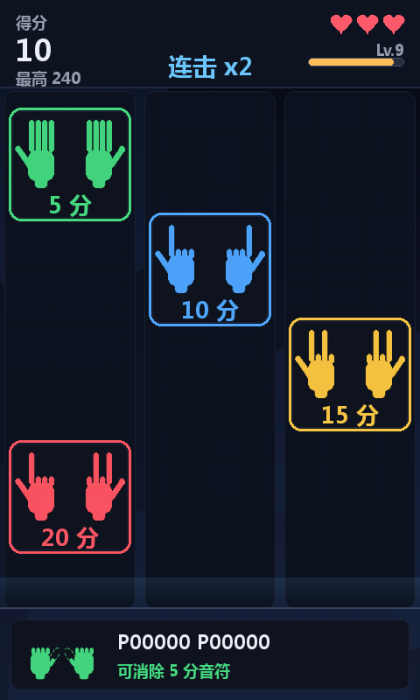
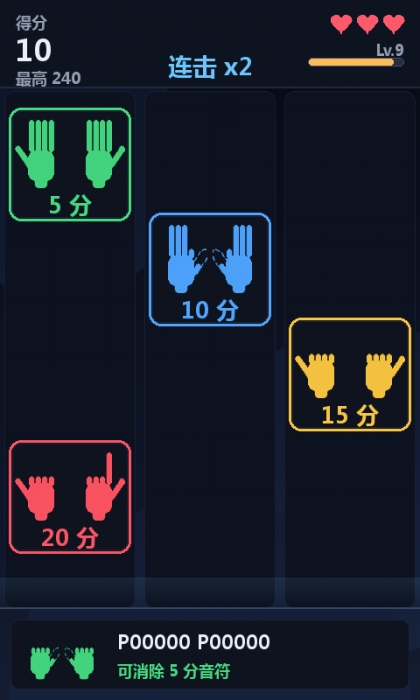
feat: 蓝色去掉 11000，黄色改为 10000 / 11000 / 11100
- 蓝色 10 分：01000 / 01100 / 01110 / 01111 / 00111（仅 P），5 种
- 黄色 15 分：10000 / 11000 / 11100（拇指伸出，P/N 任意），12 种
- 红色 20 分：取自全部 10 种手型的不同手型对，174 种
- 合计 196 种；测试、自检、文档与截图同步更新

diff --git a/test_rhythm_logic.py b/test_rhythm_logic.py
@@ -61,15 +61,15 @@ def test_examples_from_requirements():
     }
     ten = {
         "P01000P01000", "P01100P01100", "P01110P01110",
-        "P01111P01111", "P00111P00111", "P11000P11000",
+        "P01111P01111", "P00111P00111",
     }
     fifteen = {
-        "P11010P11010", "P01010P01010", "P00101P00101", "P01001P01001",
-        "N11010N11010", "P11010N11010", "N11010P11010",
+        "P10000P10000", "P11000P11000", "P11100P11100",
+        "N10000N10000", "P10000N10000", "N11000P11000",
     }
     twenty = {
-        "P11111P00000", "P01000P01100", "P11010P01010", "P01001N11111",
-        "P11010N11000", "N11010P11111",
+        "P11111P00000", "P01000P01100", "P10000P01000", "P00111N11111",
+        "P11000N11111", "P11100P01110",
     }
     for code in sorted(five):
         check("5 points {}".format(format_code(code)),
@@ -87,28 +87,29 @@ def test_examples_from_requirements():
         check("20 points {}".format(format_code(code)),
               value_of_code(code) == 20, describe(code))
     # Thumb variations: N hands must keep the thumb extended.
-    check("10 points N11000P11000", value_of_code("N11000P11000") == 10)
-    check("10 points P11000N11000", value_of_code("P11000N11000") == 10)
-    check("N01110P01110 removed (N thumb folded)",
+    check("yellow allows N (11000 thumb is extended)",
+          value_of_code("N11000N11000") == 15)
+    check("blue does not allow N (folded thumb)",
           value_of_code("N01110P01110") == 0)
-    check("yellow with N thumb folded removed",
-          value_of_code("N01010P01010") == 0)
+    check("11000 is no longer a blue pattern",
+          value_of_code("P11000P11000") == 15)
     # Everything else is not a note gesture.
     check("invalid pattern 10101", value_of_code("P10101P10101") == 0)
     check("invalid thumb X", value_of_code("X11111P11111") == 0)
     check("too short", value_of_code("P1111P11111") == 0)
     check("empty", value_of_code("") == 0)
+    check("removed pattern 11010", value_of_code("P11010P11010") == 0)
     check("is_valid_code", is_valid_code("P11111N00000")
           and not is_valid_code("p11111n00000"))
 
 
 def test_catalog_sizes_and_consistency():
-    check("catalog total is 225", len(CATALOG) == 225, str(len(CATALOG)))
+    check("catalog total is 196", len(CATALOG) == 196, str(len(CATALOG)))
     sizes = {value: len(codes) for value, codes in CODES_BY_VALUE.items()}
     check("5 green gestures", sizes[5] == 5, str(sizes[5]))
-    check("9 blue gestures", sizes[10] == 9, str(sizes[10]))
-    check("7 yellow gestures", sizes[15] == 7, str(sizes[15]))
-    check("204 red gestures", sizes[20] == 204, str(sizes[20]))
+    check("5 blue gestures", sizes[10] == 5, str(sizes[10]))
+    check("12 yellow gestures", sizes[15] == 12, str(sizes[15]))
+    check("174 red gestures", sizes[20] == 174, str(sizes[20]))
     check("categories are disjoint",
           not (set(CODES_BY_VALUE[5]) & set(CODES_BY_VALUE[10])) and
           not (set(CODES_BY_VALUE[10]) & set(CODES_BY_VALUE[15])) and
@@ -132,7 +133,7 @@ def test_catalog_sizes_and_consistency():
     check("catalog rule consistency", not wrong, str(wrong[:4]))
     check("all patterns used", set(PATTERNS_5 + PATTERNS_10 +
                                    PATTERNS_15) == set(ALL_PATTERNS))
-    check("12 per-hand patterns", len(ALL_PATTERNS) == 12)
+    check("10 per-hand patterns", len(ALL_PATTERNS) == 10)
     check("every N hand has the thumb out",
           all(parse_hand(code[6:])[0] != "N" or
               parse_hand(code[6:])[1][0] == "1"

diff --git a/gesture_catalog.py b/gesture_catalog.py
@@ -21,18 +21,18 @@ value   rule
 5       both hands share the same finger pattern, pattern is 11111 or
         00000                                        (4 + 1 = 5)
 10      both hands share the same pattern from 01000, 01100, 01110,
-        01111, 00111 or 11000                   (5 * 1 + 1 * 4 = 9)
-15      both hands share the same pattern from 11010, 01010, 00101 or
-        01001                                         (4 + 3 = 7)
-20      the two hands use *different* patterns, both from the 12
-        patterns above                           (12 * 11 pairs, thumbs
-                                                   per the rule = 204)
+        01111 or 00111                                    (5 * 1 = 5)
+15      both hands share the same pattern from 10000, 11000 or 11100
+                                                   (3 * 4 = 12)
+20      the two hands use *different* patterns, both from the 10
+        patterns above                           (10 * 9 pairs, thumbs
+                                                   per the rule = 174)
 ======  ==============================================================
 
 An ``N`` hand must have its thumb extended: an outward pointing thumb that is
 folded does not read clearly, so the game never asks for it (``N00000`` and
 friends are not note gestures), while ``P`` hands may keep the thumb folded.
-With that rule the catalog holds 5 + 9 + 7 + 204 = 225 gestures.  Any other
+With that rule the catalog holds 5 + 5 + 12 + 174 = 196 gestures.  Any other
 code is a valid *reading* of the hands but not a note gesture: it matches
 nothing.
 """
@@ -46,10 +46,10 @@ import random
 # ---------------------------------------------------------------------------
 
 PATTERNS_5 = ("11111", "00000")
-PATTERNS_10 = ("01000", "01100", "01110", "01111", "00111", "11000")
-PATTERNS_15 = ("11010", "01010", "00101", "01001")
+PATTERNS_10 = ("01000", "01100", "01110", "01111", "00111")
+PATTERNS_15 = ("10000", "11000", "11100")
 
-#: Every per-hand finger pattern that can appear on a note (12 in total).
+#: Every per-hand finger pattern that can appear on a note (10 in total).
 ALL_PATTERNS = PATTERNS_5 + PATTERNS_10 + PATTERNS_15
 
 THUMBS = ("P", "N")

diff --git a/verify_environment.py b/verify_environment.py
@@ -79,18 +79,18 @@ def check_catalog():
     from gesture_catalog import CATALOG, CODES_BY_VALUE, value_of_code
 
     sizes = {value: len(codes) for value, codes in CODES_BY_VALUE.items()}
-    record("gesture catalog 225 gestures", len(CATALOG) == 225,
+    record("gesture catalog 196 gestures", len(CATALOG) == 196,
            str(len(CATALOG)))
-    record("score groups 5 / 9 / 7 / 204",
-           sizes.get(5) == 5 and sizes.get(10) == 9 and
-           sizes.get(15) == 7 and sizes.get(20) == 204, str(sizes))
+    record("score groups 5 / 5 / 12 / 174",
+           sizes.get(5) == 5 and sizes.get(10) == 5 and
+           sizes.get(15) == 12 and sizes.get(20) == 174, str(sizes))
     record("catalog lookup",
            value_of_code("P11111P11111") == 5 and
            value_of_code("P01110P01110") == 10 and
-           value_of_code("P11010P11010") == 15 and
+           value_of_code("P10000P10000") == 15 and
            value_of_code("P11111P00000") == 20 and
            value_of_code("N00000P00000") == 0,
-           "P11111P11111=5, P01110P01110=10, P11010P11010=15, "
+           "P11111P11111=5, P01110P01110=10, P10000P10000=15, "
            "P11111P00000=20, N-folded=0")
 
 

diff --git a/docs/实现报告.md b/docs/实现报告.md
@@ -34,19 +34,19 @@ READY --(双手张开保持 0.7 s)--> PLAYING --(机会用尽)--> OVER
 
 即 `P` 指向屏幕中央、`N` 指向外侧。
 
-### 1.3 四档手势（共 225 个）
+### 1.3 四档手势（共 196 个）
 
 | 分值 | 颜色 | 规则 | 数量 |
 | --- | --- | --- | --- |
 | 5 | 绿 `(72,219,130)` | 两手手型相同且在 `{11111, 00000}`；`11111` 可 P/N，`00000` 只能 P | 4 + 1 = **5** |
-| 10 | 蓝 `(82,168,255)` | 两手手型相同且在 `{01000, 01100, 01110, 01111, 00111, 11000}`；`11000` 可 P/N，其余只能 P | 5 + 4 = **9** |
-| 15 | 黄 `(250,200,70)` | 两手手型相同且在 `{11010, 01010, 00101, 01001}`；`11010` 可 P/N，其余只能 P | 4 + 3 = **7** |
-| 20 | 红 `(255,88,102)` | 两手手型**不同**，各自取自上述全部 12 种手型；N 手按拇指规则 | **204** |
+| 10 | 蓝 `(82,168,255)` | 两手手型相同且在 `{01000, 01100, 01110, 01111, 00111}`；拇指都是收起的，只能 P | 5 × 1 = **5** |
+| 15 | 黄 `(250,200,70)` | 两手手型相同且在 `{10000, 11000, 11100}`；拇指都是伸出的，P/N 任意 | 3 × 4 = **12** |
+| 20 | 红 `(255,88,102)` | 两手手型**不同**，各自取自上述全部 10 种手型；N 手按拇指规则 | **174** |
 
 **N 手拇指规则**：`N` 手（拇指朝外）必须伸出大拇指，`P` 手不受限（伸、屈都可以）。
-朝外又收起的拇指在画面里很难辨认，因此不作为音符要求。20 分的推导：拇指位为 1 的 3 种手型
-（`11111`、`11000`、`11010`）每只手有 2 种选择，其余 9 种只有 `P` 一种，按有序不同手型对累加：
-`3×2 对 ×4 + 3×9×2 对 ×2 + 9×8 对 ×1 = 24 + 108 + 72 = 204`。
+朝外又收起的拇指在画面里很难辨认，因此不作为音符要求。20 分的推导：10 种手型的有序不同对共
+90 对；拇指位为 1 的 4 种（`11111`、`10000`、`11000`、`11100`）每只手有 2 种选择，
+其余 6 种只有 `P` 一种，`4×3 对 ×4 + 4×6×2 对 ×2 + 6×5 对 ×1 = 48 + 96 + 30 = 174`。
 
 不是音符的编码（例如手型 `10101`、`N00000P00000`）仍然能识别并显示，但不与任何音符匹配、不扣分。
 
@@ -83,7 +83,7 @@ READY --(双手张开保持 0.7 s)--> PLAYING --(机会用尽)--> OVER
 | --- | --- |
 | `gesture_rhythm.py` | 主程序：pygame 三个界面、摄像头窗口叠加、主循环、窗口缩放、键鼠输入 |
 | `gesture_twohands.py` | MediaPipe 双手识别：整帧输入、左右手排序、关节角判定、平滑、骨骼绘制、后台采集线程 |
-| `gesture_catalog.py` | 12 字符编码 / 解码、225 个音符手势的分类表与随机取音符 |
+| `gesture_catalog.py` | 12 字符编码 / 解码、196 个音符手势的分类表与随机取音符 |
 | `gesture_icons.py` | 程序化绘制手势图、音符卡片、当前手势面板 |
 | `game_core.py` | 纯游戏逻辑：音符、难度、生成器、命中、机会、状态机、最高分 JSON |
 | `sound_effects.py` | numpy 合成音效，按事件类型播放，无音频设备时自动关闭 |
@@ -140,11 +140,11 @@ READY --(双手张开保持 0.7 s)--> PLAYING --(机会用尽)--> OVER
 ### 5.1 单元测试（`test_rhythm_logic.py`）
 
 ```
-160 checks, 0 failed
+158 checks, 0 failed
 RESULT: all passed
 ```
 
-覆盖：四档数量 5/9/7/204/225、分类表自洽性（含「N 手拇指必须伸出」全表断言）、编解码与非法输入、
+覆盖：四档数量 5/5/12/174/196、分类表自洽性（含「N 手拇指必须伸出」全表断言）、编解码与非法输入、
 拇指朝向映射、合成 landmark 分类（张开/握拳/单指/三指）、3D 关节角阈值（90°/150° 折叠、
 DIP 勾指、朝镜头伸直、拇指搭掌）、张开判定容错、平滑表决、难度三段式（0-30 s 只加音符种类且
 无红色、30-60 s 间隔与速度同步但不到极限、60-90 s 红色与极限同步、速度波动）、
@@ -186,7 +186,7 @@ RESULT: all 31 checks passed
    机器上按 `check_camera.bat` 后实测。
 2. 拇指朝向在「拇指笔直朝上/朝下」时本质上有歧义，代码用拇指根部侧向做兜底，可能偶发 P/N 抖动；
    摄像头窗口会实时显示 12 字符，便于自查。
-3. 20 分档 204 种手势，玩家不可能记全，只能看卡片图片；双手交叉时左右手会按画面位置交换。
+3. 20 分档 174 种手势，玩家不可能记全，只能看卡片图片；双手交叉时左右手会按画面位置交换。
 4. 摄像头分辨率与手在画面中的大小会影响 landmark 精度：手离镜头越近、占比越大越准。
 5. 游戏需要摄像头才能开始（开始必须双手张开），虚拟摄像头只用于打开界面/截图。
 6. 没有暂停功能；退出用 ESC。
@@ -194,7 +194,7 @@ RESULT: all 31 checks passed
 ## 七、运行与复现
 
 ```bat
-:: 逻辑单元测试（160 项）
+:: 逻辑单元测试（158 项）
 .venv\Scripts\python.exe test_rhythm_logic.py
 
 :: 环境自检（31 项）

diff --git a/README.md b/README.md
@@ -14,7 +14,7 @@
 - **两个窗口**：摄像头预览（双手骨骼 + LEFT/RIGHT 识别结果）与游戏窗口（420×700）。
 - **双手识别**：MediaPipe Hands 处理整幅镜像画面，按关节夹角判断手指伸/屈，
   左右手按画面位置区分。
-- **225 种手势音符**：5 / 10 / 15 / 20 分四档，分别用绿 / 蓝 / 黄 / 红卡片和手势图表示。
+- **196 种手势音符**：5 / 10 / 15 / 20 分四档，分别用绿 / 蓝 / 黄 / 红卡片和手势图表示。
 - **完整对局**：双手张开开始 → 音符下落 → 做出手势消除 → 漏掉扣机会 → 3 次机会用尽结束 →
   显示历史最高分与「重新开始」。
 - **难度递增**：音符更快、更密、高分更多，90 秒升到满难度。
@@ -69,17 +69,17 @@ run_game.bat
 拇指朝向：画面**左边**的手拇指朝**右**记 `P`、朝左记 `N`；画面**右边**的手拇指朝**左**记
 `P`、朝右记 `N`（也就是 `P` 指向屏幕中央、`N` 指向外侧）。
 
-手势按分值分成四档，共 **225** 种。其中有一条简化规则：**`N` 手（拇指朝外）的拇指必须是伸出的**
+手势按分值分成四档，共 **196** 种。其中有一条简化规则：**`N` 手（拇指朝外）的拇指必须是伸出的**
 （朝外的拇指再收起来在画面里很难分辨，所以不要求玩家做），`P` 手不受限（拇指伸、屈都可以）：
 
 | 分值 | 颜色 | 规则 | 数量 |
 | --- | --- | --- | --- |
 | 5 | 绿 | 两手手型相同，且是 `11111`（张开，P/N 任意）或 `00000`（握拳，只能 P） | 5 |
-| 10 | 蓝 | 两手手型相同，且是 `01000` `01100` `01110` `01111` `00111` `11000` 之一；`11000` 可 P/N，其余只能 P | 9 |
-| 15 | 黄 | 两手手型相同，且是 `11010` `01010` `00101` `01001` 之一；`11010` 可 P/N，其余只能 P | 7 |
-| 20 | 红 | 两手手型**不同**，且各自取自上面 12 种手型；N 手按上面的规则 | 204 |
+| 10 | 蓝 | 两手手型相同，且是 `01000` `01100` `01110` `01111` `00111` 之一（拇指都是收起的，只能 P） | 5 |
+| 15 | 黄 | 两手手型相同，且是 `10000` `11000` `11100` 之一（拇指都是伸出的，P/N 任意） | 12 |
+| 20 | 红 | 两手手型**不同**，且各自取自上面 10 种手型；N 手按上面的规则 | 174 |
 
-例如 `P00000P00000`（双手握拳、拇指朝内且收起）是 5 分音符，`P11010P11010` 是 15 分音符，
+例如 `P00000P00000`（双手握拳、拇指朝内且收起）是 5 分音符，`P10000P10000` 是 15 分音符，
 `P11111P00000`（一手张开一手握拳）是 20 分音符；而 `N00000P00000` 不是音符
 （`N` 手的拇指必须伸出）。其它编码（例如手型 `10101`）能识别但不属于音符，不匹配任何音符、也不扣分。
 
@@ -114,7 +114,7 @@ run_game.bat
 | --- | --- |
 | [gesture_rhythm.py](gesture_rhythm.py) | 主程序：三个界面、摄像头窗口、主循环 |
 | [gesture_twohands.py](gesture_twohands.py) | MediaPipe 双手识别、关节角判定、骨骼绘制、后台采集线程 |
-| [gesture_catalog.py](gesture_catalog.py) | 12 字符编码 / 解码、225 个音符手势的分类表 |
+| [gesture_catalog.py](gesture_catalog.py) | 12 字符编码 / 解码、196 个音符手势的分类表 |
 | [gesture_icons.py](gesture_icons.py) | 程序化绘制手势图、音符卡片、当前手势面板 |
 | [game_core.py](game_core.py) | 纯游戏逻辑：音符、难度、命中、机会、状态机、最高分 |
 | [sound_effects.py](sound_effects.py) | numpy 合成的音效，无音频设备时自动关闭 |
@@ -129,7 +129,7 @@ run_game.bat
 ## 测试
 
 ```bat
-:: 逻辑单元测试（160 项）
+:: 逻辑单元测试（158 项）
 .venv\Scripts\python.exe test_rhythm_logic.py
 
 :: 环境自检（31 项）
